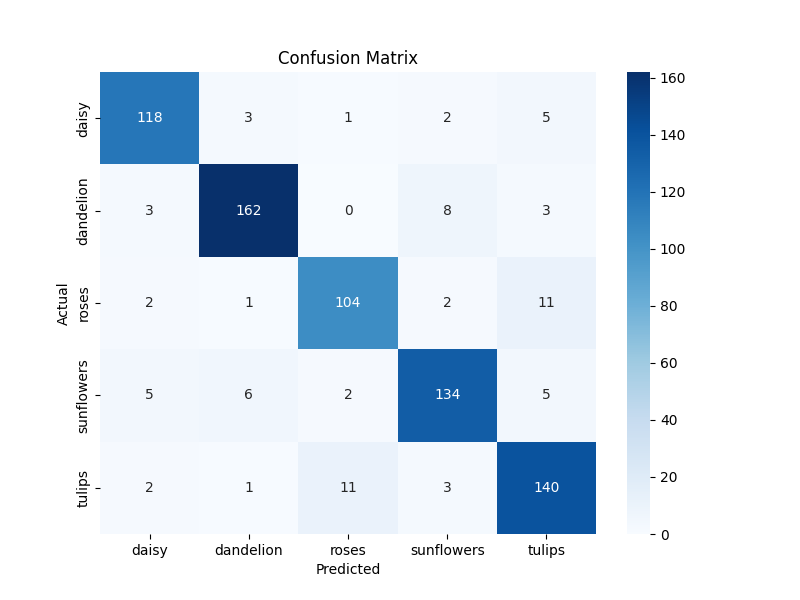
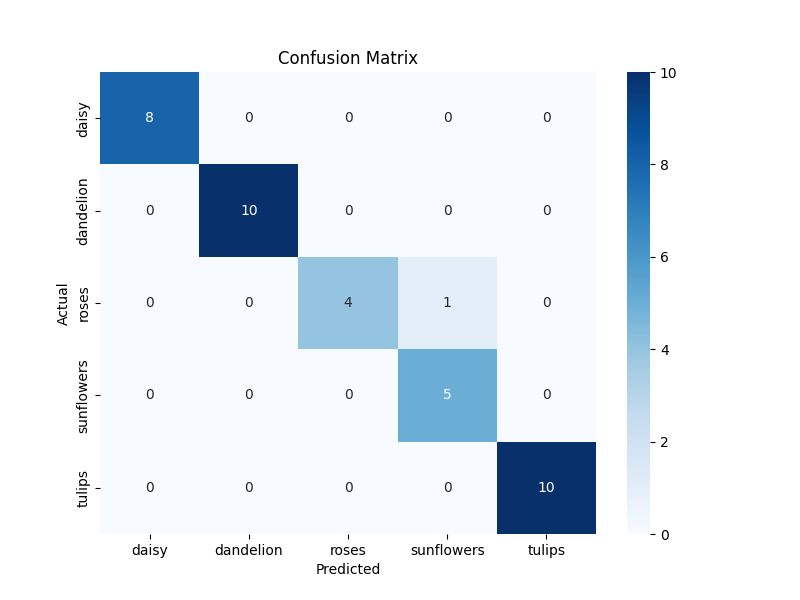
Adding more flowers classes to the learning Model

diff --git a/src/data_loader.py b/src/data_loader.py
@@ -1,54 +1,23 @@
+# src/data_loader.py
 import tensorflow as tf
-import pathlib
-from config import DATA_DIR, IMG_SIZE, BATCH_SIZE, VALIDATION_SPLIT, SEED
-
-DATASET_URL = "https://storage.googleapis.com/download.tensorflow.org/example_images/flower_photos.tgz"
-
-def download_data():
-    """Downloads the flower dataset if not already present."""
-    data_dir = tf.keras.utils.get_file(
-        'flower_photos',
-        origin=DATASET_URL,
-        untar=True
-    )
-    data_dir = pathlib.Path(data_dir)
-
-    # Fix nested folder issue
-    nested = data_dir / "flower_photos"
-    if nested.exists():
-        data_dir = nested
-
-    print(f"\n📁 Dataset path: {data_dir}")
-    print(f"📂 Subfolders found: {[f.name for f in data_dir.iterdir() if f.is_dir()]}")
-
-    return data_dir
-
+import tensorflow_datasets as tfds
+from config import IMG_SIZE, BATCH_SIZE
 
 def load_data():
-    """Loads and returns (train_ds, val_ds) datasets."""
-    data_dir = download_data()
-
-    train_ds = tf.keras.utils.image_dataset_from_directory(
-        data_dir,
-        validation_split=VALIDATION_SPLIT,
-        subset="training",
-        seed=SEED,
-        image_size=(IMG_SIZE, IMG_SIZE),
-        batch_size=BATCH_SIZE
+    (train_ds, val_ds), info = tfds.load(
+        'oxford_flowers102',
+        split=['train', 'validation'],
+        as_supervised=True,
+        with_info=True
     )
 
-    val_ds = tf.keras.utils.image_dataset_from_directory(
-        data_dir,
-        validation_split=VALIDATION_SPLIT,
-        subset="validation",
-        seed=SEED,
-        image_size=(IMG_SIZE, IMG_SIZE),
-        batch_size=BATCH_SIZE
-    )
+    def preprocess(image, label):
+        image = tf.image.resize(image, (IMG_SIZE, IMG_SIZE))
+        return image, label
 
-    # Performance optimization
     AUTOTUNE = tf.data.AUTOTUNE
-    train_ds = train_ds.cache().shuffle(1000).prefetch(buffer_size=AUTOTUNE)
-    val_ds = val_ds.cache().prefetch(buffer_size=AUTOTUNE)
+
+    train_ds = train_ds.map(preprocess).cache().shuffle(1000).batch(BATCH_SIZE).prefetch(AUTOTUNE)
+    val_ds   = val_ds.map(preprocess).cache().batch(BATCH_SIZE).prefetch(AUTOTUNE)
 
     return train_ds, val_ds

diff --git a/src/predict.py b/src/predict.py
@@ -1,28 +1,26 @@
 # src/predict.py
 import tensorflow as tf
+import tensorflow_datasets as tfds
 import numpy as np
 from PIL import Image
-from config import IMG_SIZE, CLASS_NAMES, MODEL_SAVE_PATH
+from config import IMG_SIZE, MODEL_SAVE_PATH
+
+CLASS_NAMES = tfds.builder('oxford_flowers102').info.features['label'].names
 
 def load_model():
-    """Loads the saved model from disk."""
     return tf.keras.models.load_model(MODEL_SAVE_PATH)
 
-
 def predict(image_path, model=None):
-    """Takes an image path and returns the predicted flower name + confidence."""
     if model is None:
         model = load_model()
 
-    # Load and preprocess image
     img = Image.open(image_path).convert("RGB").resize((IMG_SIZE, IMG_SIZE))
-    img_array = np.expand_dims(np.array(img), axis=0)  # Add batch dimension
+    img_array = np.expand_dims(np.array(img), axis=0)
 
-    # Predict
     predictions = model.predict(img_array, verbose=0)
-    predicted_index = np.argmax(predictions[0])
-    confidence      = predictions[0][predicted_index] * 100
+    predicted_index = int(np.argmax(predictions[0]))
+    confidence = float(predictions[0][predicted_index] * 100)
 
     flower = CLASS_NAMES[predicted_index]
-    print(f"\n Predicted: {flower.upper()}  ({confidence:.1f}% confidence)")
+    print(f"\n🌸 Predicted: {flower.upper()}  ({confidence:.1f}% confidence)")
     return flower, confidence

diff --git a/src/model.py b/src/model.py
@@ -2,10 +2,10 @@ import tensorflow as tf
 from config import IMG_SIZE, NUM_CLASSES, LEARNING_RATE
 
 def build_model():
-    """Builds and returns a MobileNetV2-based transfer learning model."""
+    """Builds and returns a learning model."""
 
     #Load pretrained base
-    base_model = tf.keras.applications.MobileNetV2(
+    base_model = tf.keras.applications.EfficientNetB3(
         input_shape = (IMG_SIZE, IMG_SIZE, 3),
         include_top = False,
         weights = 'imagenet'
@@ -13,11 +13,13 @@ def build_model():
     base_model.trainable = False # Freeze pretrained weights
 
     model = tf.keras.Sequential([
-        tf.keras.layers.Rescaling(1./255), # Normalize pixels to [0,1]
-        base_model, # Pretrained feature extractor
-        tf.keras.layers.GlobalAveragePooling2D(), # Flatten feature maps
-        tf.keras.layers.Dropout(0.2), # Reduce overfitting
-        tf.keras.layers.Dense(NUM_CLASSES, activation = 'softmax') # Output layer
+        base_model,
+        tf.keras.layers.GlobalAveragePooling2D(),
+        tf.keras.layers.BatchNormalization(),
+        tf.keras.layers.Dropout(0.3),
+        tf.keras.layers.Dense(256, activation='relu'),
+        tf.keras.layers.Dropout(0.2),
+        tf.keras.layers.Dense(NUM_CLASSES, activation='softmax')
     ])
 
     model.compile(

diff --git a/src/train.py b/src/train.py
@@ -7,26 +7,33 @@ def train(model, train_ds, val_ds):
 
     # Stop early f model stops improving
     early_stop = tf.keras.callbacks.EarlyStopping(
-        monitor = 'val_accuracy',
-        patience = 3,
-        restore_best_weights = True
+        monitor='val_loss',
+        patience=6,
+        restore_best_weights=True
     )
 
     # Save best model automatically during training
     checkpoint = tf.keras.callbacks.ModelCheckpoint(
-        filepath =  MODEL_SAVE_PATH,
-        monitor = 'val_accuracy',
-        save_best_only = True,
-        verbose = 1
+        filepath=MODEL_SAVE_PATH,
+        monitor='val_loss',
+        save_best_only=True,
+        verbose=1
     )
 
+    reduce_lr = tf.keras.callbacks.ReduceLROnPlateau(
+        monitor='val_loss',
+        factor=0.3,
+        patience=2,
+        min_lr=1e-6,
+        verbose=1
+    )
     print("\n Starting training... \n")
 
     history = model.fit(
         train_ds,
         validation_data = val_ds,
         epochs = EPOCHS,
-        callbacks = [early_stop, checkpoint]
+        callbacks = [early_stop, checkpoint, reduce_lr]
     )
 
     print(f"\n Model saved to: {MODEL_SAVE_PATH}")

diff --git a/config.py b/config.py
@@ -2,10 +2,11 @@ import os
 
 
 # Image settings
-IMG_SIZE = 224
-BATCH_SIZE = 32
-EPOCHS = 10
-NUM_CLASSES = 5
+IMG_SIZE    = 224
+BATCH_SIZE  = 32
+EPOCHS      = 20       
+NUM_CLASSES = 102       
+LEARNING_RATE = 0.001
 
 # Class names
 CLASS_NAMES = ['daisy', 'dandelion', 'roses', 'sunflowers', 'tulips']
@@ -13,7 +14,7 @@ CLASS_NAMES = ['daisy', 'dandelion', 'roses', 'sunflowers', 'tulips']
 # Paths
 BASE_DIR = os.path.dirname(os.path.abspath(__file__))
 DATA_DIR = os.path.join(BASE_DIR, "data", "flower_photos")
-MODEL_SAVE_PATH = os.path.join(BASE_DIR, "models", "flower_model.keras")
+MODEL_SAVE_PATH = os.path.join(BASE_DIR, "models", "flower_model.h5")
 
 # Training settings
 VALIDATION_SPLIT = 0.2

diff --git a/tests/test.py b/tests/test.py
@@ -1,4 +1,3 @@
-# tests/test.py
 import sys
 import os
 
@@ -6,5 +5,5 @@ sys.path.append(os.path.dirname(os.path.dirname(os.path.abspath(__file__))))
 
 from src.predict import predict
 
-image_path = "sample_images/daisy-test.jpg"
+image_path = "sample_images/lilium.jpg"
 flower, confidence = predict(image_path)
